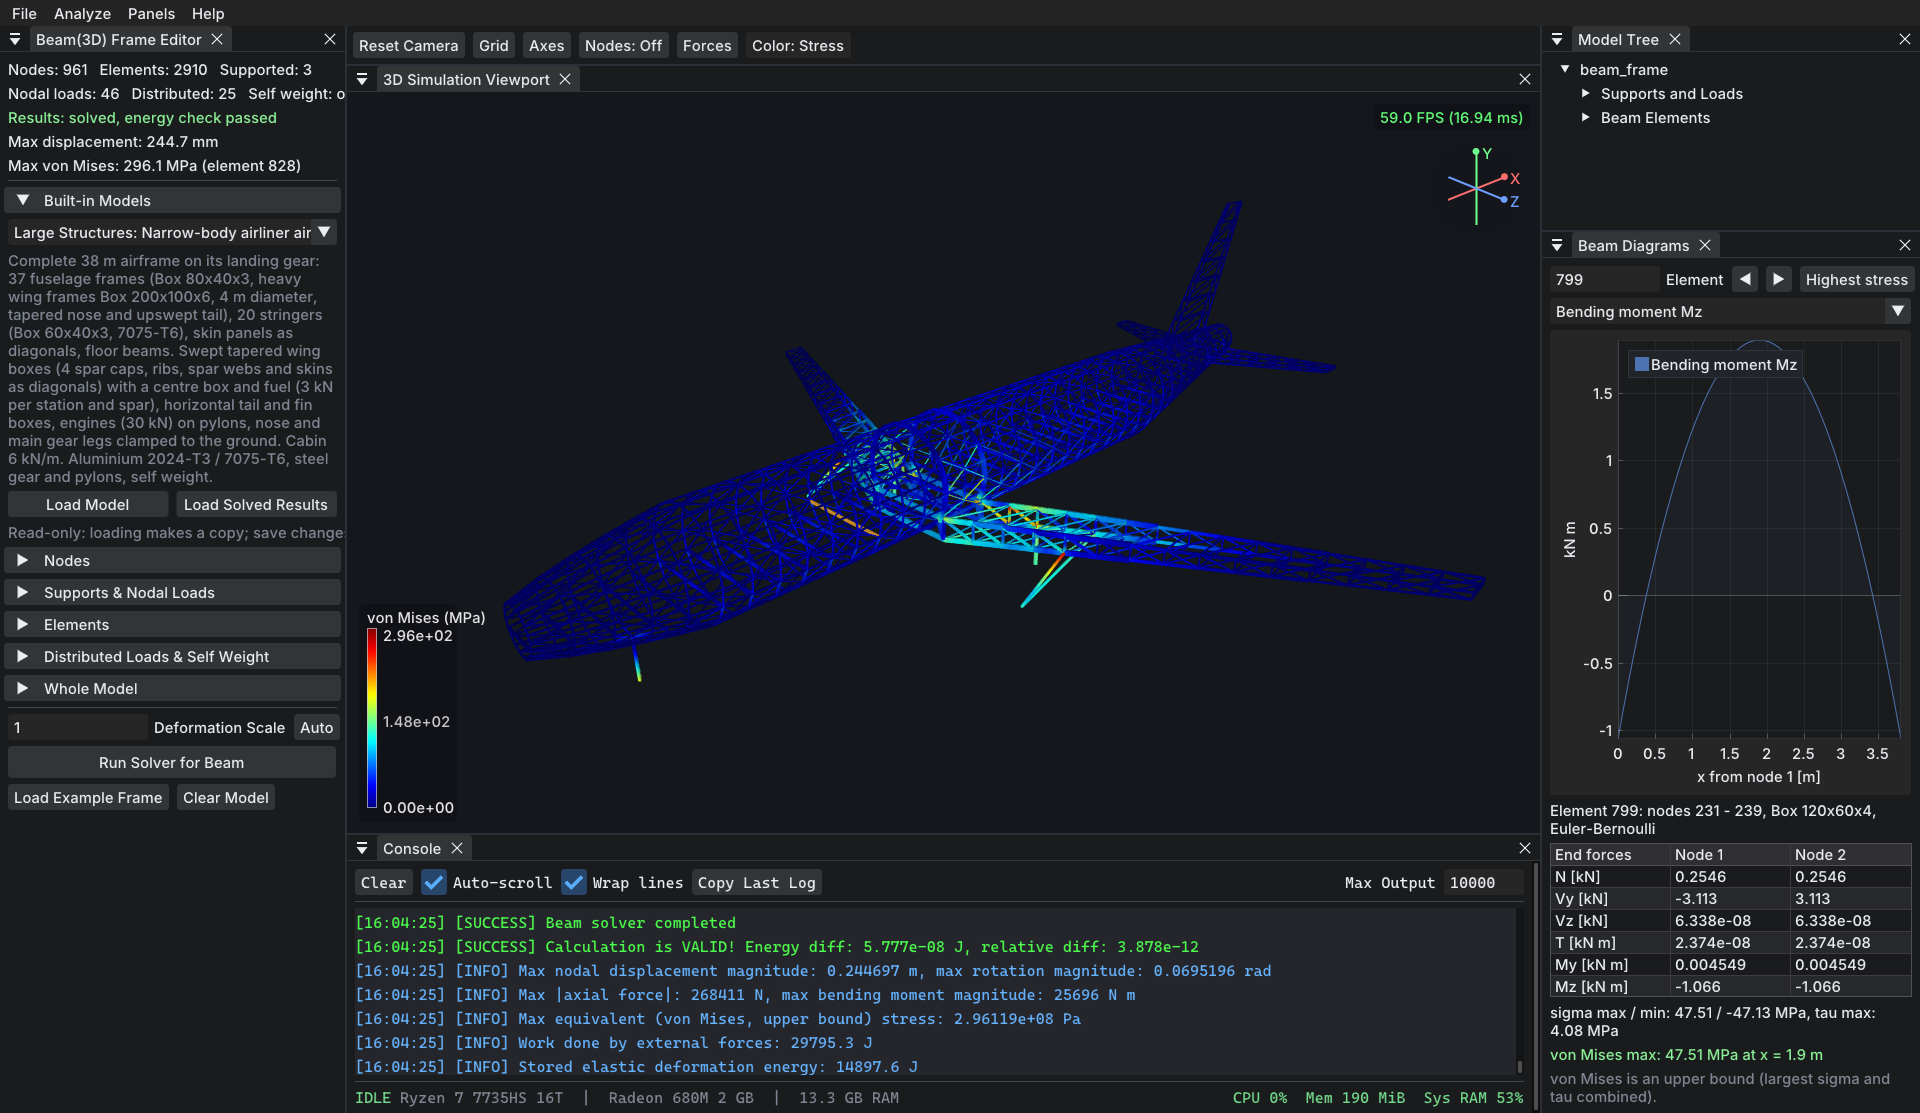
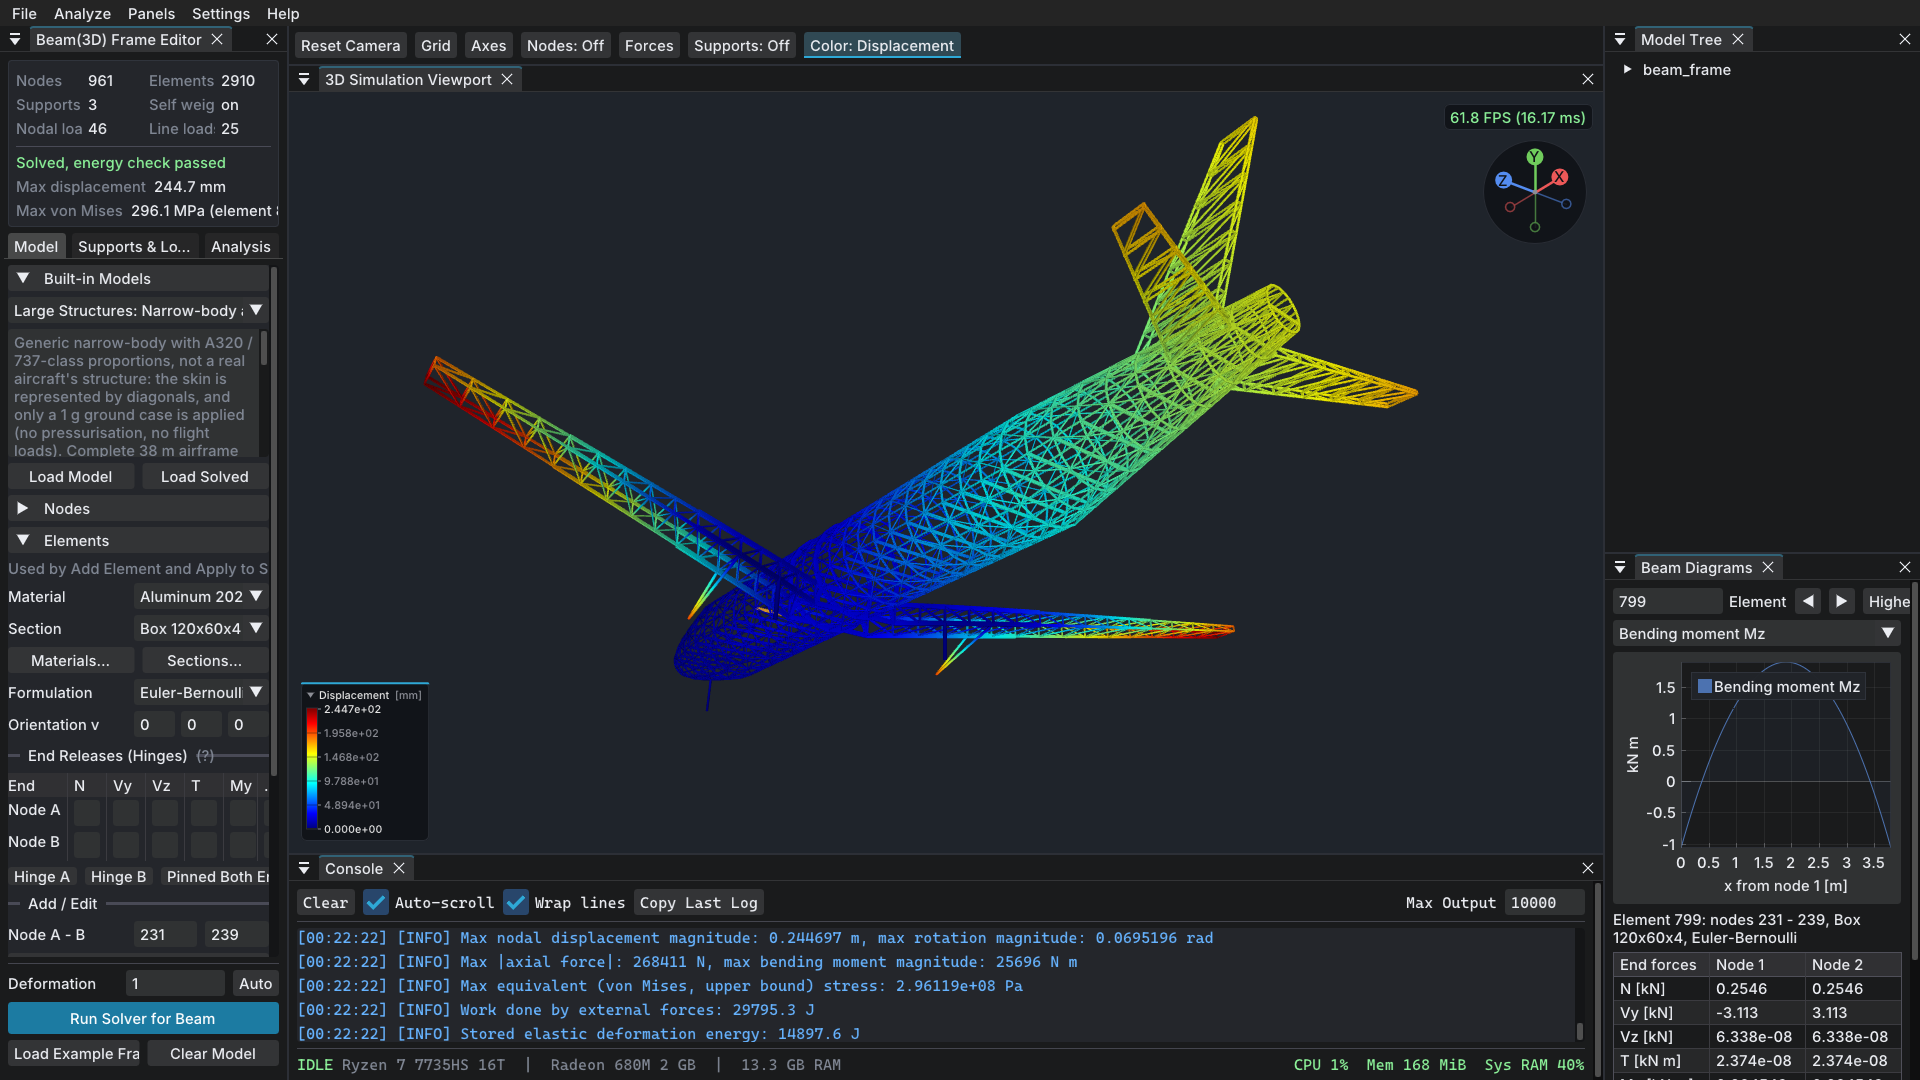
docs(readme): new hero screenshot with displacement coloring
Stress coloring left almost the whole airframe at the bottom of the
scale (peak in a few gear / pylon members). Displacement shows the
gradient over fuselage, tail and wings. Caption and alt text updated.

Phase: 3.1

diff --git a/README.md b/README.md
@@ -6,9 +6,9 @@
 [![GitHub Release](https://img.shields.io/github/v/release/suacayipkisi/anafinen?include_prereleases&style=flat-square&color=blue)](https://github.com/suacayipkisi/anafinen/releases/latest)
 [![Downloads](https://img.shields.io/github/downloads/suacayipkisi/anafinen/total?style=flat-square&color=green)](https://github.com/suacayipkisi/anafinen/releases)
 
-![anafinen: narrow-body airliner airframe solved with beam elements, von Mises stress coloring, bending moment diagram and solver log](docs/images/anafinen-beam-fuselage.png)
+![anafinen: narrow-body airliner airframe solved with beam elements, displacement coloring, bending moment diagram and solver log](docs/images/anafinen-beam-fuselage.png)
 
-*A built-in large structure (a complete 38 m narrow-body airliner airframe on its landing gear: 961 nodes, 2910 beam elements, aluminium 2024-T3 / 7075-T6 and a steel gear) solved with 3D beam elements: real cross-sections colored by von Mises stress, the bending moment diagram and end forces of the selected element, and the solver log with the energy check.*
+*A built-in large structure (a complete 38 m narrow-body airliner airframe on its landing gear: 961 nodes, 2910 beam elements, aluminium 2024-T3 / 7075-T6 and a steel gear) solved with 3D beam elements: real cross-sections colored by displacement magnitude (up to 245 mm at the wing tips; von Mises stress coloring is one click away), the bending moment diagram and end forces of the selected element, and the solver log with the energy check.*
 
 ## Video Tutorial
 
